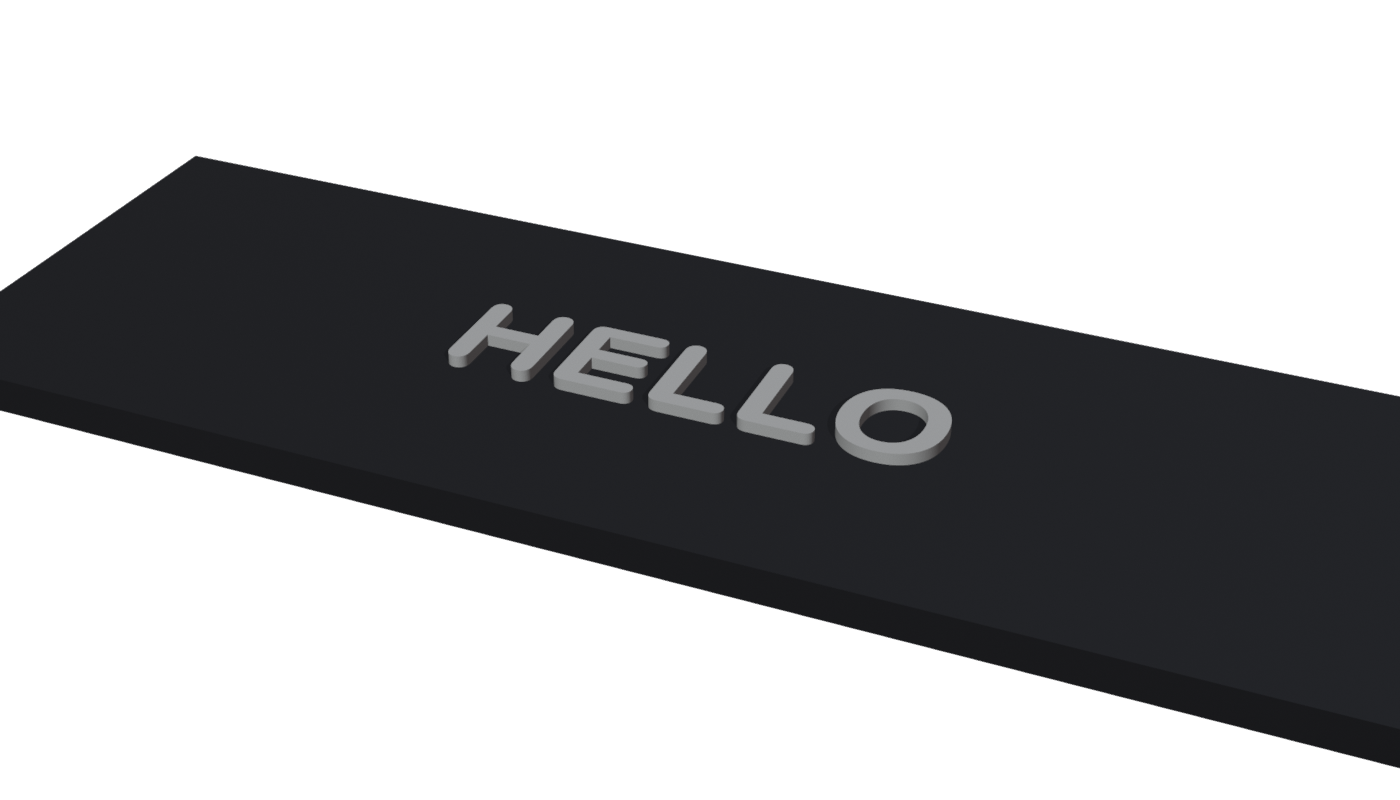
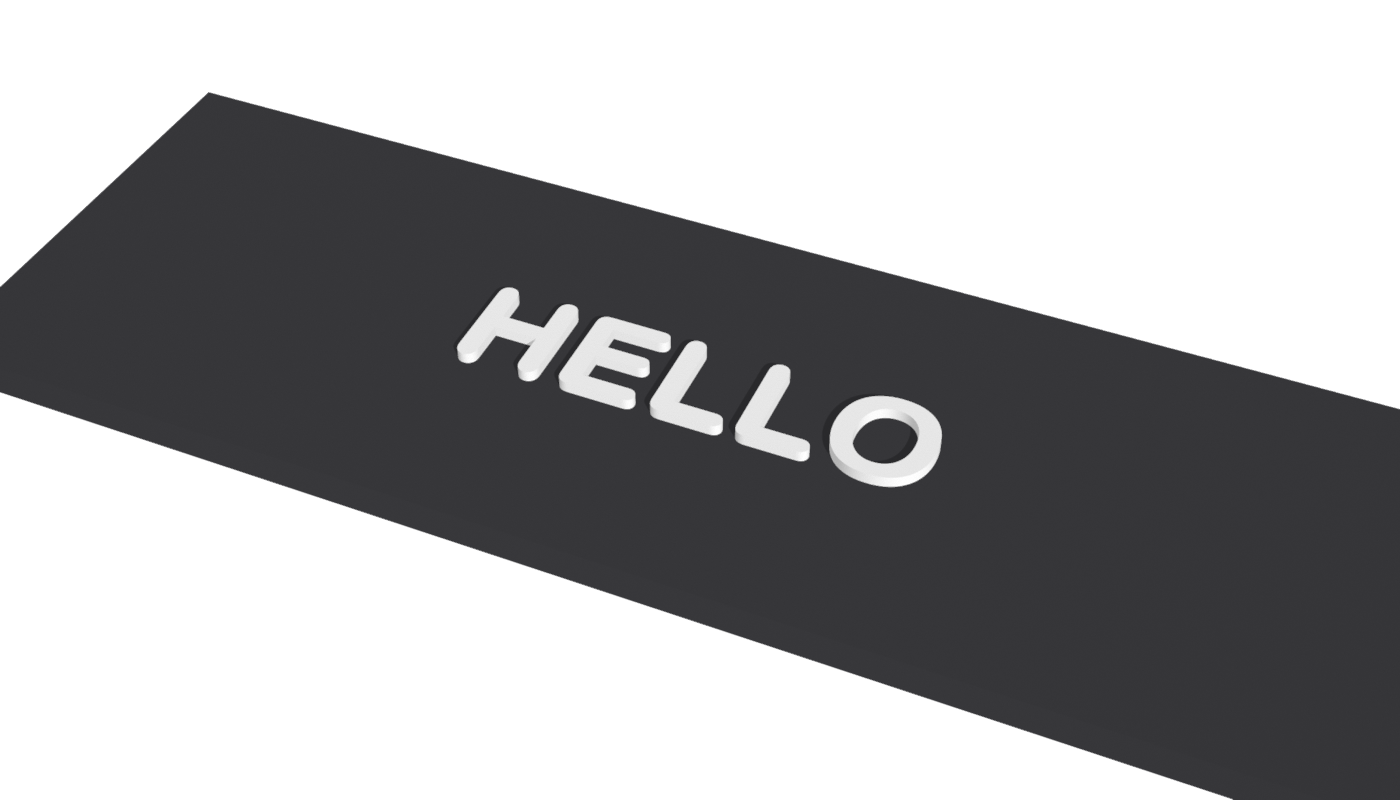
review round 1 fixes: scrub private strings, align verified claims, clean CLI errors, Windows CI, hide launch worksheets

diff --git a/creality3mf.py b/creality3mf.py
@@ -159,6 +159,9 @@ def load_part(spec: str, default_extruder: int = 1) -> Part:
 
 # ----------------------------------------------------------------------------- printers
 def load_printers() -> dict:
+    if not os.path.exists(PRINTERS_JSON):
+        raise FileNotFoundError(f"{PRINTERS_JSON} missing — keep data/printers.json next to creality3mf.py, "
+                                "or pass --bed W D --height H instead of --printer")
     with open(PRINTERS_JSON, encoding="utf-8") as f:
         return json.load(f)["printers"]
 
@@ -310,6 +313,8 @@ def load_project_settings(source: str) -> dict:
     """Read a project_settings.config dict from a .3mf (Creality/Bambu/Orca) or a bare .json."""
     if source.lower().endswith(".3mf"):
         with zipfile.ZipFile(source) as z:
+            if "Metadata/project_settings.config" not in z.namelist():
+                raise ValueError(f"{source}: model-only 3MF, it carries no project settings")
             return json.loads(z.read("Metadata/project_settings.config"))
     with open(source, encoding="utf-8") as f:
         return json.load(f)
@@ -560,7 +565,10 @@ def main(argv: Sequence[str] | None = None) -> int:
         ap.error("build needs --printer or --bed W D")
     try:
         return a.fn(a)
-    except (ValueError, KeyError, FileNotFoundError) as e:
+    except zipfile.BadZipFile as e:
+        print(f"error: not a 3MF (zip) file: {e}", file=sys.stderr)
+        return 1
+    except (ValueError, KeyError, FileNotFoundError, OSError) as e:
         print(f"error: {e}", file=sys.stderr)
         return 1
 

diff --git a/tests/test_creality3mf.py b/tests/test_creality3mf.py
@@ -195,8 +195,15 @@ class CliTests(unittest.TestCase):
             info = c3.inspect_3mf(f"{d}/o.3mf")
         self.assertEqual(info["objects"][0]["parts"][1]["name"], "Top")
 
-    def test_unknown_printer_is_an_error(self):
-        self.assertEqual(c3.main(["build", "-o", os.devnull, "--printer", "Nope", "--part", "x.stl"]), 1)
+    def test_unknown_printer_and_bad_zip_are_clean_errors(self):
+        import contextlib
+        import io
+        err = io.StringIO()
+        with contextlib.redirect_stderr(err):
+            self.assertEqual(c3.main(["build", "-o", os.devnull, "--printer", "Nope", "--part", "x.stl"]), 1)
+            self.assertEqual(c3.main(["inspect", __file__]), 1)
+        self.assertIn("unknown printer", err.getvalue())
+        self.assertIn("not a 3MF", err.getvalue())
 
     def test_printer_table_has_cfs_flagships(self):
         printers = c3.load_printers()

diff --git a/examples/blender_text_plate.py b/examples/blender_text_plate.py
@@ -1,6 +1,6 @@
 """Blender headless example: plate + real-font raised text → parts → multi-colour 3MF.
 
-    blender -b --python examples/blender_text_plate.py -- --text "To Lindsey" --out /tmp/plate --build \
+    blender -b --python examples/blender_text_plate.py -- --text "MAKER" --out /tmp/plate --build \
         [--font "/System/Library/Fonts/Supplemental/Arial Rounded Bold.ttf"] [--printer "Creality K2 Pro"]
 
 Design rules baked in for a 0.4 mm nozzle: text raised 1.0 mm, cap height 14 mm, bold face.

diff --git a/README.md b/README.md
@@ -4,7 +4,7 @@
 
 ![Creality Print Skill](assets/banner.png)
 
-An agent skill (`SKILL.md`) plus a zero-dependency tool (`creality3mf.py`) that turns STL/OBJ parts or a Blender scene into a `.3mf` that Creality Print opens as a single multi-colour object, centred on the bed, with every part already assigned to a CFS slot. Bambu Studio and OrcaSlicer read the same dialect.
+An agent skill (`SKILL.md`) plus a zero-dependency tool (`creality3mf.py` + `data/printers.json`) that turns STL/OBJ parts or a Blender scene into a `.3mf` that Creality Print opens as a single multi-colour object, centred on the bed, with every part already assigned to a CFS slot. Bambu Studio and OrcaSlicer share the loader this was checked against (not yet verified on them — see the compatibility matrix).
 
 ![HELLO nameplate: black plate, raised white lettering](assets/example-nameplate.png)
 
@@ -42,7 +42,7 @@ python3 creality3mf.py printers                 # 55 Creality machines, beds fro
 **From Blender (headless)**
 
 ```bash
-blender -b --python examples/blender_text_plate.py -- --text "To Lindsey" --out /tmp/p --build \
+blender -b --python examples/blender_text_plate.py -- --text "MAKER" --out /tmp/p --build \
     --font "/System/Library/Fonts/Supplemental/Arial Rounded Bold.ttf"
 ```
 Material names `E1_…` / `E2_…` (or an object property `extruder`) decide the slot; `scripts/blender_export_parts.py` writes STL parts + `parts.json` for any scene.
@@ -85,7 +85,7 @@ One object with `<part>` children is what Creality Print writes itself; per-part
 
 ## License and credits
 
-MIT. Format knowledge from [CrealityPrint](https://github.com/CrealityOfficial/CrealityPrint) / [BambuStudio](https://github.com/bambulab/BambuStudio) source (AGPL-3.0, not vendored) and the [3MF Consortium](https://3mf.io) specs; Blender path via the [3MF Import/Export extension](https://extensions.blender.org/add-ons/threemf-io/). Prior art that this does not repeat: [Kiln](https://github.com/codeofaxel/Kiln), [k2-3d-printing-skill](https://github.com/woliveiras/k2-3d-printing-skill), [blender-mcp](https://github.com/ahujasid/blender-mcp).
+MIT. Format knowledge from [CrealityPrint](https://github.com/CrealityOfficial/CrealityPrint) / [BambuStudio](https://github.com/bambulab/BambuStudio) source (AGPL-3.0, not vendored) and the [3MF Consortium](https://3mf.io) specs; Blender path via the [3MF Import/Export extension](https://extensions.blender.org/add-ons/threemf-io/). Prior art that this does not repeat: [Kiln](https://github.com/codeofaxel/Kiln) and [bambu-printer-mcp](https://github.com/DMontgomery40/bambu-printer-mcp) write multi-part 3MF for Bambu Studio but are MCP servers (not vendorable into a skill), clone templates rather than write the structure, and do not cover Creality's loader, `creality.config` or the CLI version gate; [k2-3d-printing-skill](https://github.com/woliveiras/k2-3d-printing-skill) documents the K2 GUI but has no writer; [blender-mcp](https://github.com/ahujasid/blender-mcp) drives Blender live and knows nothing about 3MF.
 
 ---
 
@@ -123,7 +123,7 @@ python3 creality3mf.py build -o model.3mf --printer "Creality K2 Plus" \
 
 ```bash
 blender --command extension install ThreeMF_io
-blender -b --python examples/blender_text_plate.py -- --text "To Lindsey" --out /tmp/p --build
+blender -b --python examples/blender_text_plate.py -- --text "MAKER" --out /tmp/p --build
 ```
 材质名 `E1_xxx` / `E2_xxx` 决定槽位。无头脚本里要自己 `addon_utils.enable("bl_ext.blender_org.ThreeMF_io")`。
 
@@ -137,4 +137,4 @@ blender -b --python examples/blender_text_plate.py -- --text "To Lindsey" --out 
 
 ## 兼容
 
-Creality Print 6.x–7.2 ✅（已验证）· Bambu Studio / OrcaSlicer ✅（同一加载器）· PrusaSlicer / Cura 只读几何。详见 [`reference/compatibility.md`](reference/compatibility.md)。
+Creality Print 7.2.1 ✅ 已验证（GUI + CLI）· 6.x / Bambu Studio / OrcaSlicer：同一加载器代码，未逐一验证 · PrusaSlicer / Cura 只读几何。详见 [`reference/compatibility.md`](reference/compatibility.md)。

diff --git a/SKILL.md b/SKILL.md
@@ -53,14 +53,17 @@ part assignment), or printers from other vendors that do not read Bambu-style 3M
    Creality's own vendor profiles (`data/printers.json`). Ask if unknown; never guess a bed size.
 3. **Decide the parts** — one part per colour region. Typical: `Plate` (slot 1), `Body` (slot 2),
    `Lettering` (slot 2 or 3). Parts may touch; avoid overlapping volumes (double walls).
-4. **Build geometry in millimetres** — Blender (`examples/blender_text_plate.py`) or pure Python
-   (`examples/nameplate.py`). Rules in §4. Raised features sit *on* a surface (z = top), inlays
+4. **Build geometry in millimetres** — pure Python (`examples/nameplate.py`) when the parts are
+   boxes/cylinders/pixel text and Blender is not installed; Blender (`examples/blender_text_plate.py`)
+   when you need real fonts, booleans, or to split/repair an existing mesh. Rules in §4. Raised features sit *on* a surface (z = top), inlays
    need a matching pocket; do not leave a part floating.
 5. **Export parts** — Blender: `scripts/blender_export_parts.py` (STL, mm, manifest with slots).
 6. **Assemble** — `python3 creality3mf.py build -o out.3mf --printer "Creality K2 Pro" \
    --part Plate.stl:1 --part Lettering.stl:2 [--filament "#000000" --filament "#FFFFFF" \
    --project-from users_own.3mf]`. The tool centres the group on the bed, drops it to z = 0,
-   and refuses to write a file that does not fit.
+   and refuses to write a file that does not fit. No `--project-from` at hand? Ship a model-only
+   3MF (omit `--filament`); the user's current printer/filament presets apply and part slots still
+   work. Ask the user for any 3MF their Creality Print saved if they want colours embedded.
 7. **Verify** — `python3 creality3mf.py inspect out.3mf`: exactly one object, all parts listed
    with the intended extruder, bbox inside the bed. If Creality Print CLI is available *and the
    GUI is closed*, `CrealityPrint --info out.3mf` must exit 0 (see §6).
@@ -131,9 +134,10 @@ blender -b --python examples/blender_text_plate.py -- --text "HELLO" --out /tmp/
 
 | Slicer | Reads one-object/N-part `extruder` | Notes |
 |---|---|---|
-| Creality Print 6.x–7.2 | ✅ | primary target; adds `Metadata/creality.config` |
-| Bambu Studio 1.x–2.x | ✅ | same loader lineage; ignores `creality.config` |
-| OrcaSlicer 2.x | ✅ | same |
+| Creality Print 7.2.1 | ✅ verified (GUI + CLI `--info`) | primary target; adds `Metadata/creality.config` |
+| Creality Print 6.x | expected | same loader; the source template for project settings was a 6.3 file |
+| Bambu Studio 1.x–2.x | expected | same loader lineage; ignores `creality.config` — unverified |
+| OrcaSlicer 2.x | expected | same — unverified |
 | PrusaSlicer | ⚠ | needs `Slic3r_PE_model.config` (not written) — import as plain 3MF |
 | Cura | ⚠ | reads geometry only; colours lost |
 
